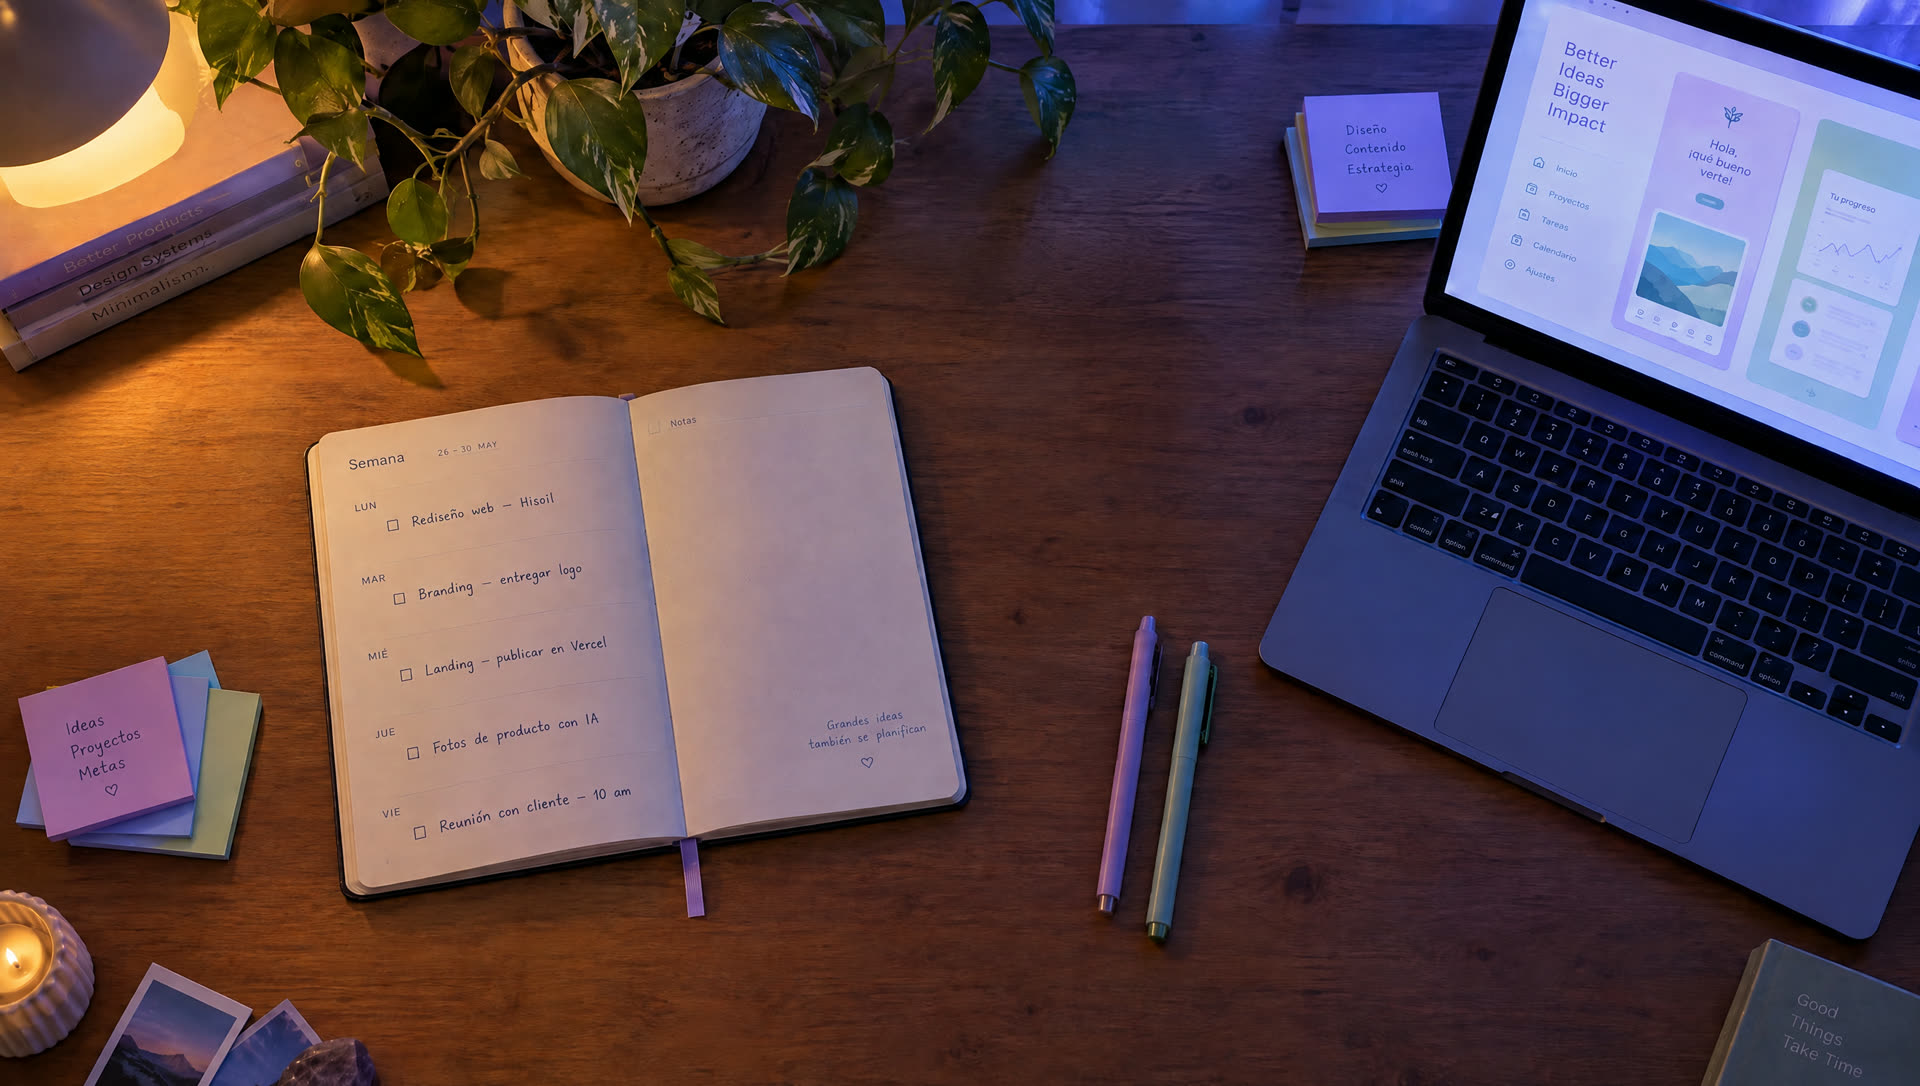
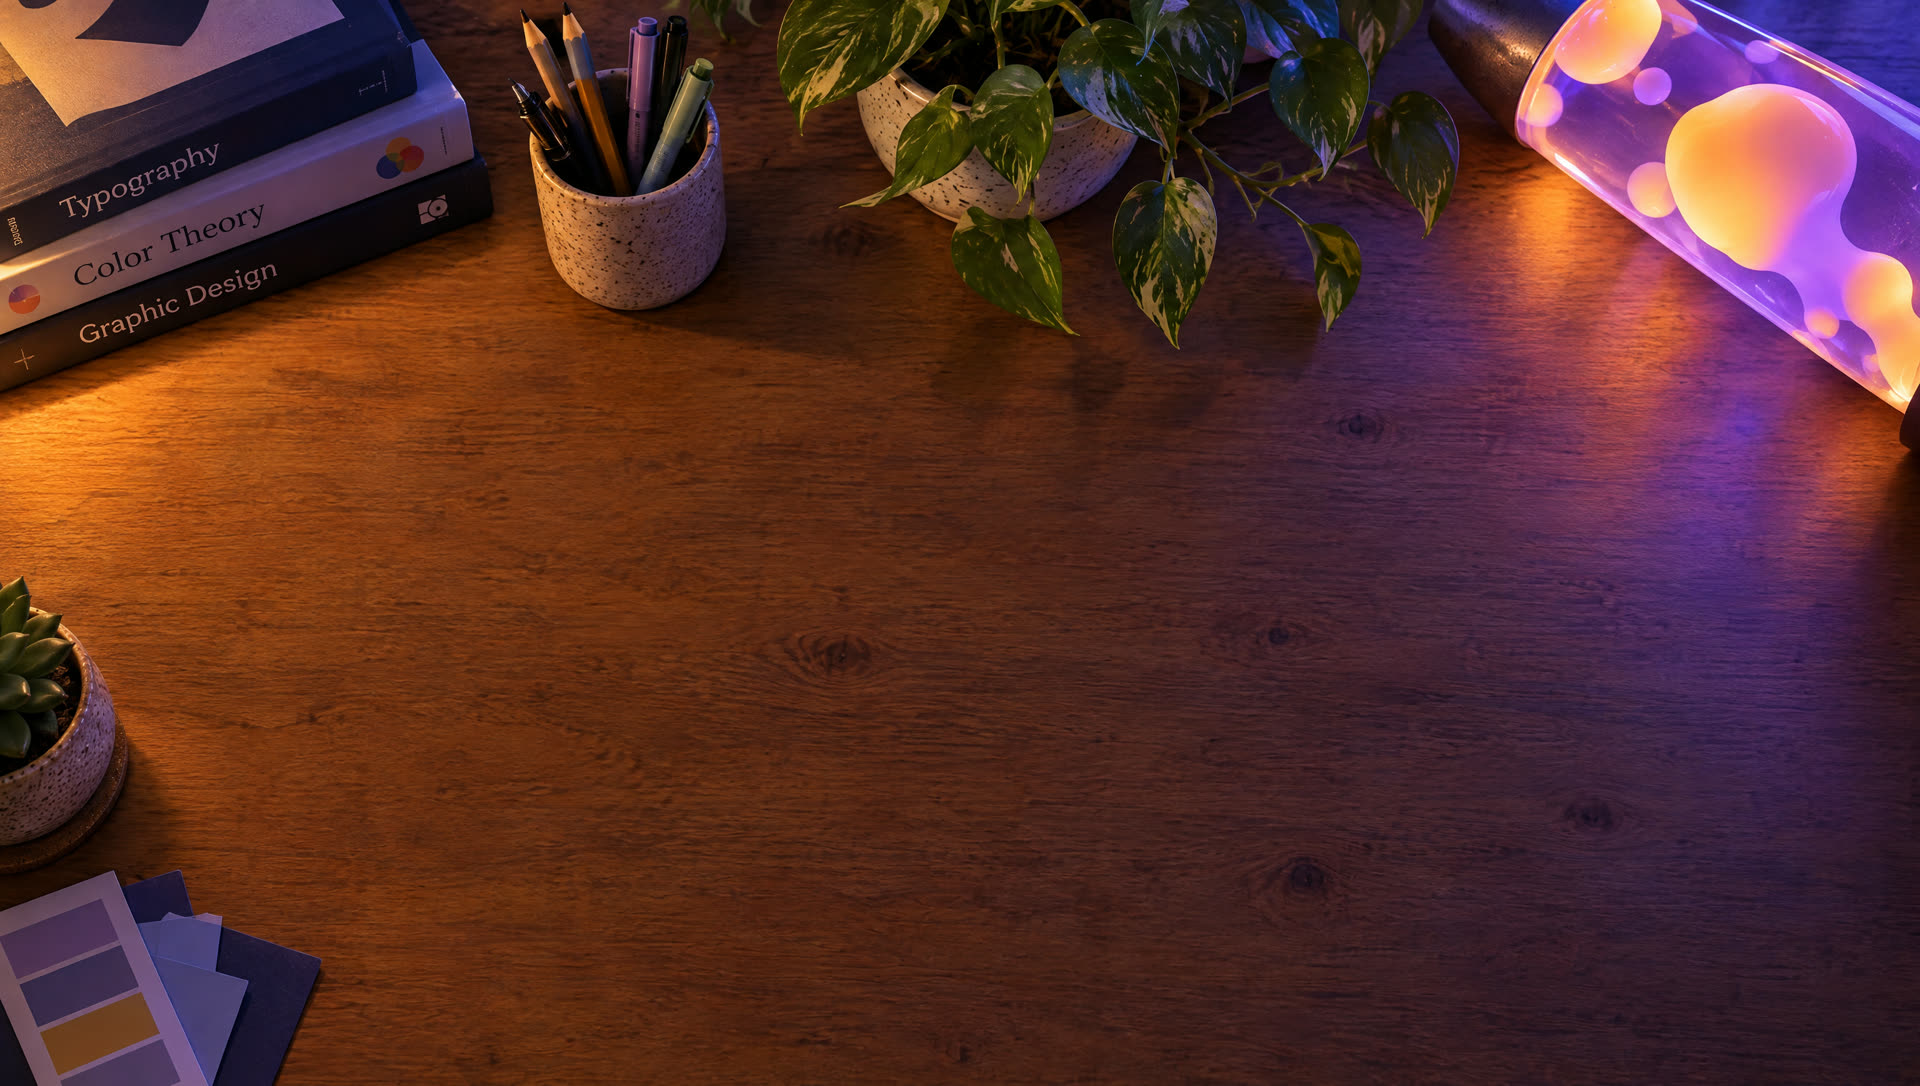
Final CTA: new desk image with design books, pen holder, plants and lava lamp
New Higgsfield image in the same night-desk style, centered free for the
headline; framed from the top so the objects stay in view.

diff --git a/assets/shared.css b/assets/shared.css
@@ -1145,9 +1145,9 @@ body.home::after { display: none; } /* en el home los gradientes van por secció
    ============================================ */
 .contact-band {
   background:
-    radial-gradient(ellipse 42% 55% at 50% 50%, rgba(23, 22, 58, 0.62) 0%, rgba(23, 22, 58, 0.25) 100%),
+    radial-gradient(ellipse 42% 55% at 50% 55%, rgba(23, 22, 58, 0.5) 0%, rgba(23, 22, 58, 0.15) 100%),
     linear-gradient(180deg, rgba(23, 22, 58, 0.55) 0%, rgba(23, 22, 58, 0.3) 45%, rgba(23, 22, 58, 0.6) 100%),
-    url("photos/cta-escritorio.jpg") center 55% / cover no-repeat, /* escritorio desde arriba con la agenda (generada en Higgsfield) */
+    url("photos/cta-escritorio.jpg") center 20% / cover no-repeat, /* escritorio con libros, lapicero, plantas y lámpara de lava (generada en Higgsfield) */
     var(--night);
   color: #ecebf8;
   text-align: center;
